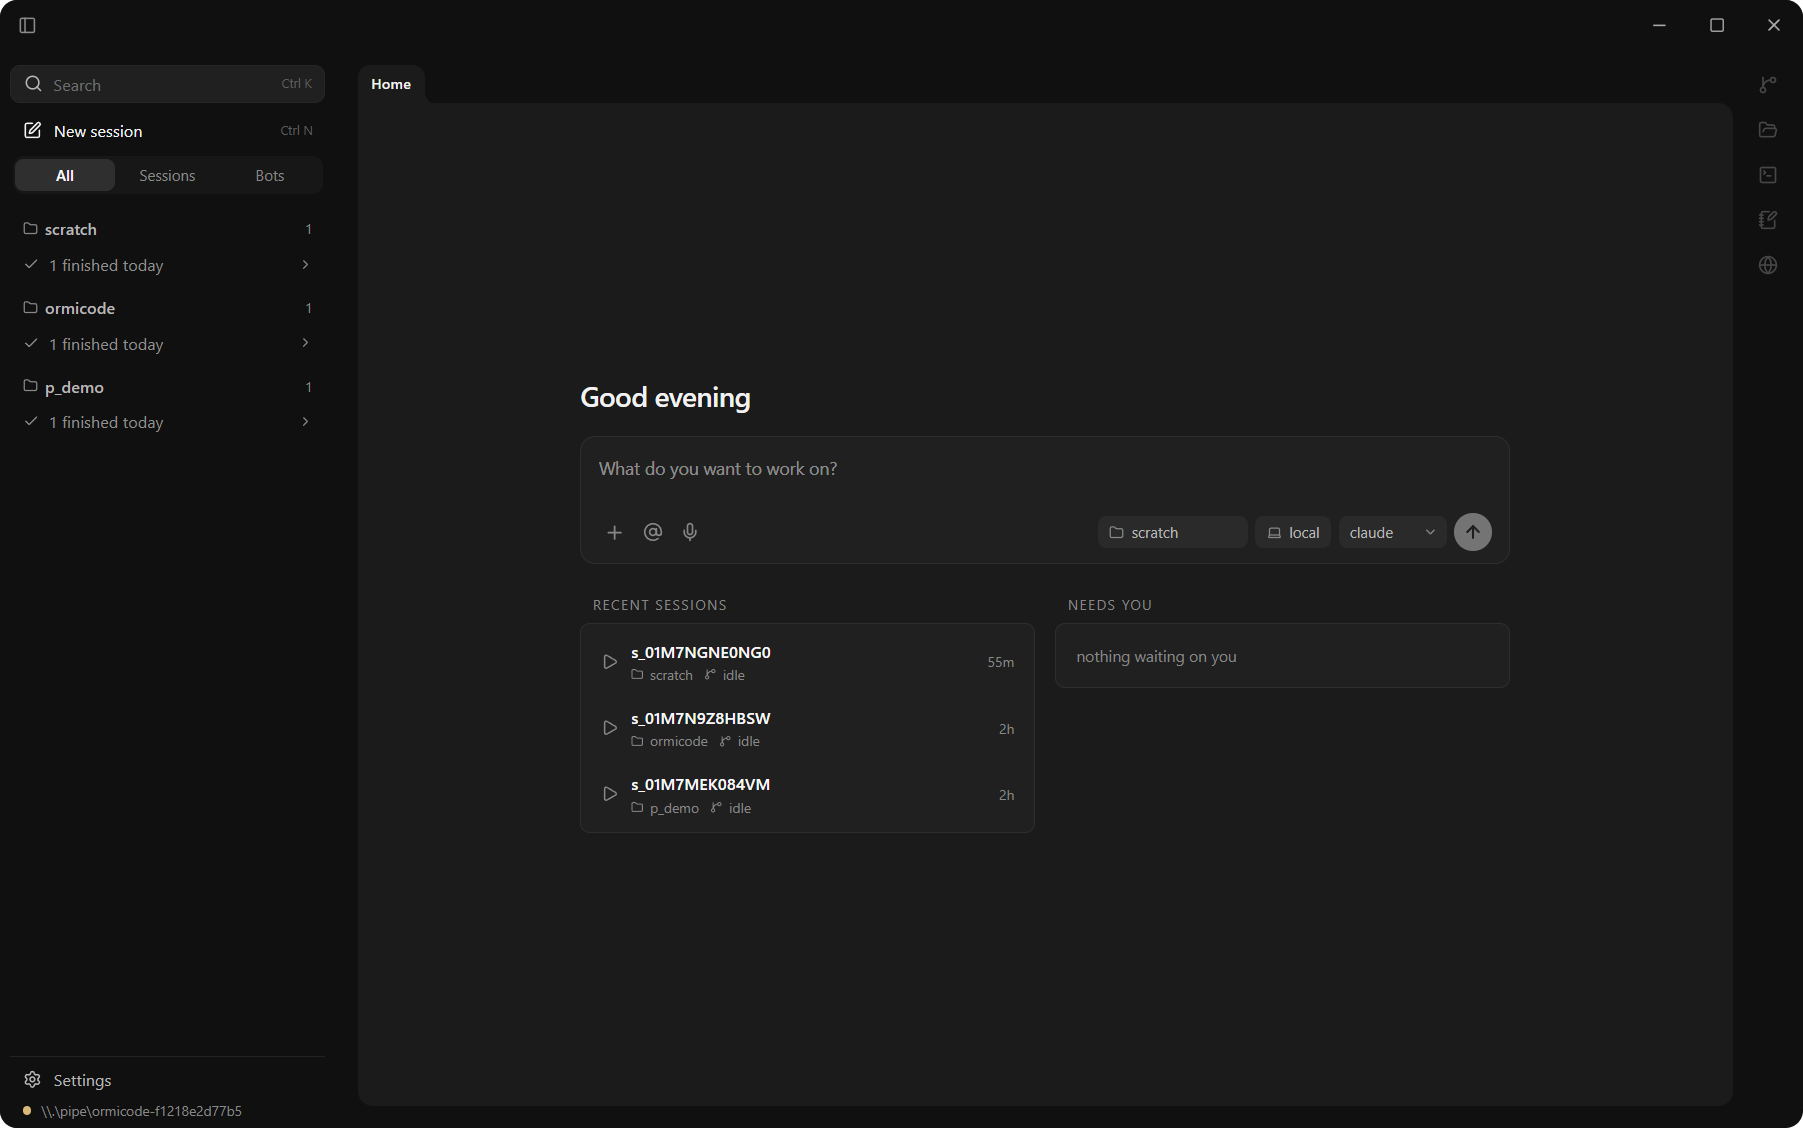
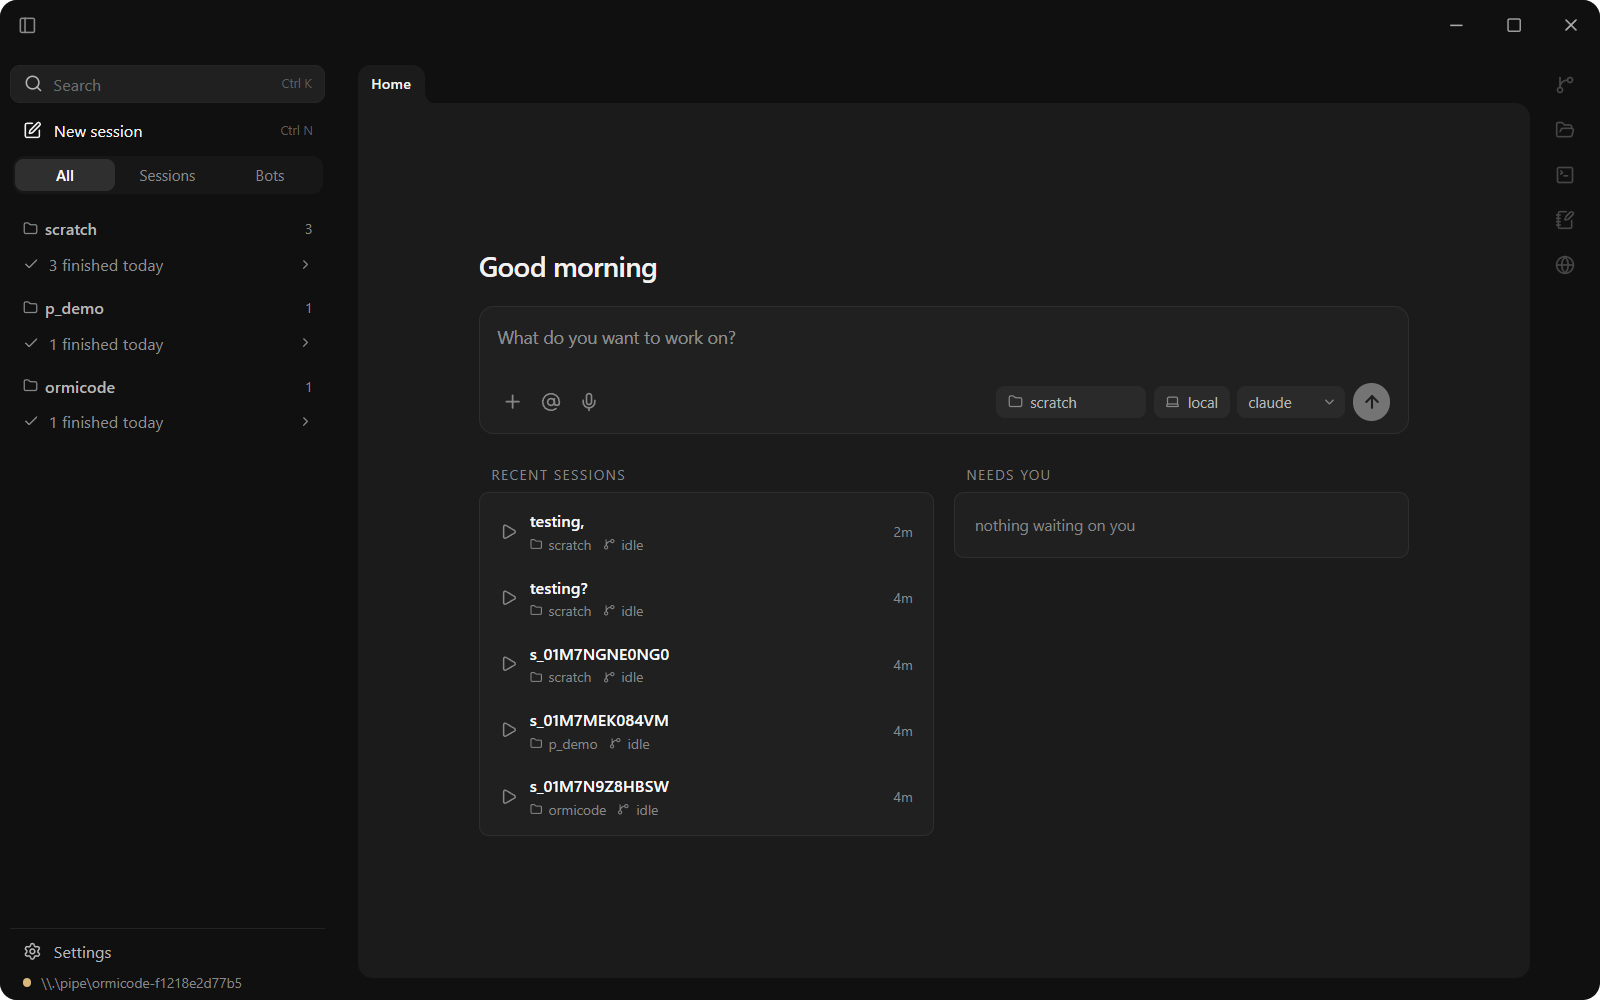
client-ui: drop sidebar connection footer, composer pass (Enter sends, autogrow, chip style)
Decided: the pipe path and keyring warning were dev noise under Settings, removed. New bg.chip token (#242424 dark) for the mockup's chips; light uses #E4E4E4. Transcript keys no longer collide on unjournaled seq=0 events.

diff --git a/packages/client-ui/src/features/session/NewSession.tsx b/packages/client-ui/src/features/session/NewSession.tsx
@@ -1,5 +1,6 @@
-/** New-session composer card: prompt + project/agent chips → session.start. */
-import { useState } from 'react';
+/** New-session composer card: prompt + project/machine/agent chips → session.start.
+ *  Enter sends, Shift+Enter newline; the textarea grows with the prompt. */
+import { useRef, useState } from 'react';
 import { Plus, AtSign, Mic, ArrowUp, ChevronDown, Folder, Laptop } from 'lucide-react';
 import { newId } from '@ormicode/protocol';
 import { usePlatform } from '../../lib/platform.ts';
@@ -8,18 +9,24 @@ const VENDORS = ['claude', 'codex', 'opencode', 'pi', 'grok', 'vibe', 'fake'];
 
 const chip = {
   font: 'inherit', fontSize: 12, color: 'var(--text-label)',
-  background: '#2a2a2a', border: 'none',
-  borderRadius: 7, padding: '4px 9px', display: 'inline-flex', alignItems: 'center', gap: 6,
+  background: 'var(--bg-chip)', border: 'none',
+  borderRadius: 7, padding: '0 8px', height: 24, display: 'inline-flex', alignItems: 'center', gap: 6,
 };
 const iconBtn = { background: 'none', border: 'none', color: 'var(--text-hint)', font: 'inherit', cursor: 'pointer', padding: 4, display: 'inline-flex' };
 
 export function NewSession({ onStarted }: { onStarted: (session: string) => void }) {
   const { transport } = usePlatform();
+  const area = useRef<HTMLTextAreaElement>(null);
   const [text, setText] = useState('');
   const [vendor, setVendor] = useState('claude');
   const [project, setProject] = useState('scratch');
   const [busy, setBusy] = useState(false);
   const [error, setError] = useState<string>();
+
+  const grow = () => {
+    const el = area.current;
+    if (el) { el.style.height = 'auto'; el.style.height = `${Math.min(el.scrollHeight, 168)}px`; }
+  };
 
   const send = async () => {
     const t = text.trim();
@@ -33,7 +40,7 @@ export function NewSession({ onStarted }: { onStarted: (session: string) => void
       });
       if (res.type === 'err') { setError(res.message); setBusy(false); return; }
       const session = (res.body as { session: string }).session;
-      setText('');
+      setText(''); grow();
       void transport.request('session.prompt', { session, text: t });
       onStarted(session);
     } catch (e) { setError(String(e)); setBusy(false); }
@@ -45,13 +52,15 @@ export function NewSession({ onStarted }: { onStarted: (session: string) => void
       padding: '14px 14px 10px', width: '100%',
     }}>
       <textarea
-        value={text} onChange={e => setText(e.target.value)}
-        onKeyDown={e => { if (e.key === 'Enter' && (e.metaKey || e.ctrlKey)) void send(); }}
-        placeholder="What do you want to work on?" rows={2}
+        ref={area}
+        value={text}
+        onChange={e => { setText(e.target.value); grow(); }}
+        onKeyDown={e => { if (e.key === 'Enter' && !e.shiftKey) { e.preventDefault(); void send(); } }}
+        placeholder="What do you want to work on?" rows={1}
         style={{
-          width: '100%', resize: 'none', font: 'inherit', fontSize: 14,
+          width: '100%', resize: 'none', font: 'inherit', fontSize: 14, lineHeight: 1.5,
           background: 'transparent', border: 'none', outline: 'none', color: 'var(--text-active)',
-          minHeight: 40,
+          minHeight: 42, maxHeight: 168, overflow: 'hidden',
         }}
       />
       {error ? <div style={{ color: 'var(--accent-red)', fontSize: 'var(--text-xs)', marginBottom: 4 }}>{error}</div> : null}
@@ -63,20 +72,21 @@ export function NewSession({ onStarted }: { onStarted: (session: string) => void
         <label style={{ ...chip, cursor: 'text' }} title="project path or 'scratch'">
           <Folder size={12} style={{ color: 'var(--text-hint)' }} />
           <input value={project} onChange={e => setProject(e.target.value)}
-            style={{ width: 84, font: 'inherit', fontSize: 'inherit', color: 'inherit', background: 'transparent', border: 'none', outline: 'none', padding: 0 }} />
+            style={{ width: 72, font: 'inherit', fontSize: 'inherit', color: 'inherit', background: 'transparent', border: 'none', outline: 'none', padding: 0 }} />
+          <ChevronDown size={12} style={{ color: 'var(--text-hint)' }} />
         </label>
-        <span style={chip} title="this machine"><Laptop size={12} style={{ color: 'var(--text-hint)' }} />local</span>
-        <span style={{ ...chip, padding: 0, position: 'relative' }}>
-          <select value={vendor} onChange={e => setVendor(e.target.value)} style={{ font: 'inherit', fontSize: 'inherit', color: 'inherit', background: 'transparent', border: 'none', outline: 'none', cursor: 'pointer', appearance: 'none', padding: '4px 24px 4px 9px' }}>
+        <span style={chip} title="this machine"><Laptop size={12} style={{ color: 'var(--text-hint)' }} />local<ChevronDown size={12} style={{ color: 'var(--text-hint)' }} /></span>
+        <span style={{ ...chip, padding: 0, position: 'relative' }} title="agent">
+          <select value={vendor} onChange={e => setVendor(e.target.value)} style={{ font: 'inherit', fontSize: 'inherit', color: 'inherit', background: 'transparent', border: 'none', outline: 'none', cursor: 'pointer', appearance: 'none', height: 24, padding: '0 24px 0 9px' }}>
             {VENDORS.map(v => <option key={v} value={v}>{v}</option>)}
           </select>
           <ChevronDown size={12} style={{ position: 'absolute', right: 7, top: '50%', transform: 'translateY(-50%)', pointerEvents: 'none', color: 'var(--text-hint)' }} />
         </span>
         <button onClick={() => void send()} disabled={!text.trim() || busy} title="start session" style={{
-          width: 30, height: 30, borderRadius: '50%', border: 'none', cursor: 'pointer',
+          width: 26, height: 26, borderRadius: '50%', border: 'none', cursor: 'pointer', marginLeft: 2,
           background: 'var(--text-title)', color: 'var(--text-onAccent)', opacity: text.trim() ? 1 : 0.4,
           display: 'inline-flex', alignItems: 'center', justifyContent: 'center',
-        }}><ArrowUp size={16} strokeWidth={2.5} /></button>
+        }}><ArrowUp size={15} strokeWidth={2.5} /></button>
       </div>
     </div>
   );

diff --git a/packages/client-ui/src/features/session/Composer.tsx b/packages/client-ui/src/features/session/Composer.tsx
@@ -1,33 +1,41 @@
-/** Prompt composer — session.prompt on Enter. Chips show what the
- * session runs; pickers arrive when the protocol exposes pickers. */
-import { useState } from 'react';
-import { Plus, AtSign, Mic, ArrowUp } from 'lucide-react';
+/** Prompt composer — session.prompt on Enter (Shift+Enter for newline).
+ * Chips show what the session runs; pickers arrive when the protocol exposes them. */
+import { useRef, useState } from 'react';
+import { Plus, AtSign, Mic, ArrowUp, ChevronDown } from 'lucide-react';
 import { usePlatform } from '../../lib/platform.ts';
 import type { SessionDetails } from './useSession.ts';
 
 export function Composer({ session, details }: { session: string; details?: SessionDetails }) {
   const { transport } = usePlatform();
+  const area = useRef<HTMLTextAreaElement>(null);
   const [text, setText] = useState('');
+  const grow = () => {
+    const el = area.current;
+    if (el) { el.style.height = 'auto'; el.style.height = `${Math.min(el.scrollHeight, 168)}px`; }
+  };
   const send = () => {
     const t = text.trim(); if (!t) return;
-    setText('');
+    setText(''); grow();
     void transport.request('session.prompt', { session, text: t });
   };
   const iconBtn = { background: 'none', border: 'none', color: 'var(--text-hint)', font: 'inherit', cursor: 'pointer', padding: 4, display: 'inline-flex' };
-  const chip = { fontSize: 'var(--text-xs)', color: 'var(--text-secondary)', background: 'var(--bg-raised)', border: '1px solid var(--line-card)', borderRadius: 'var(--radius-sm)', padding: '2px 8px' };
+  const chip = { fontSize: 'var(--text-xs)', color: 'var(--text-label)', background: 'var(--bg-chip)', border: 'none', borderRadius: 7, padding: '0 8px', height: 24, display: 'inline-flex', alignItems: 'center', gap: 5 };
   return (
     <div style={{ padding: 'var(--space-3)', display: 'flex', justifyContent: 'center' }}>
       <div style={{
         width: '100%', background: 'var(--bg-card)', border: '1px solid var(--line-card)',
         borderRadius: 'var(--radius-md)', padding: 'var(--space-2) var(--space-3)',
       }}>
-        <input
-          value={text} onChange={e => setText(e.target.value)}
+        <textarea
+          ref={area}
+          value={text}
+          onChange={e => { setText(e.target.value); grow(); }}
           onKeyDown={e => { if (e.key === 'Enter' && !e.shiftKey) { e.preventDefault(); send(); } }}
-          placeholder="prompt…" aria-label="prompt"
+          placeholder="prompt…" aria-label="prompt" rows={1}
           style={{
-            width: '100%', font: 'inherit', fontSize: 'var(--text-sm)', color: 'var(--text-active)',
-            background: 'transparent', border: 'none', outline: 'none', padding: '6px 0',
+            width: '100%', resize: 'none', font: 'inherit', fontSize: 'var(--text-sm)', lineHeight: 1.5,
+            color: 'var(--text-active)', background: 'transparent', border: 'none', outline: 'none',
+            padding: '6px 0', maxHeight: 168, overflow: 'hidden',
           }}
         />
         <div style={{ display: 'flex', alignItems: 'center', gap: 'var(--space-1)' }}>
@@ -35,13 +43,13 @@ export function Composer({ session, details }: { session: string; details?: Sess
           <button style={iconBtn} title="mention (soon)"><AtSign size={15} /></button>
           <button style={iconBtn} title="voice (soon)"><Mic size={15} /></button>
           <span style={{ flex: 1 }} />
-          {details?.vendor ? <span style={chip}>{details.vendor}</span> : null}
-          {details?.model ? <span style={chip}>{details.model}{details.effort ? ` ${details.effort}` : ''}</span> : null}
+          {details?.vendor ? <span style={chip}>{details.vendor}<ChevronDown size={11} style={{ color: 'var(--text-hint)' }} /></span> : null}
+          {details?.model ? <span style={chip}>{details.model}{details.effort ? ` ${details.effort}` : ''}<ChevronDown size={11} style={{ color: 'var(--text-hint)' }} /></span> : null}
           <button onClick={send} title="send" style={{
-            width: 26, height: 26, borderRadius: '50%', border: 'none', cursor: 'pointer',
+            width: 26, height: 26, borderRadius: '50%', border: 'none', cursor: 'pointer', marginLeft: 2,
             background: 'var(--text-title)', color: 'var(--text-onAccent)', opacity: text.trim() ? 1 : 0.4,
             display: 'inline-flex', alignItems: 'center', justifyContent: 'center',
-          }}><ArrowUp size={14} strokeWidth={2.5} /></button>
+          }}><ArrowUp size={15} strokeWidth={2.5} /></button>
         </div>
       </div>
     </div>

diff --git a/packages/ui-tokens/src/color.ts b/packages/ui-tokens/src/color.ts
@@ -1,7 +1,7 @@
 /** Colour tokens — semantic names only; the app decides where they go. */
 
 export interface ColorTokens {
-  'bg.window': string; 'bg.main': string; 'bg.card': string; 'bg.raised': string; 'bg.inset': string;
+  'bg.window': string; 'bg.main': string; 'bg.card': string; 'bg.raised': string; 'bg.inset': string; 'bg.chip': string;
   'line.card': string; 'line.divider': string; 'line.pane': string;
   'text.title': string; 'text.active': string; 'text.label': string; 'text.secondary': string; 'text.hint': string;
   'accent.mint': string; 'accent.amber': string; 'accent.red': string;
@@ -11,7 +11,7 @@ export interface ColorTokens {
 
 /** The built-in `dark` theme — the reference palette from the designs. */
 export const dark: ColorTokens = {
-  'bg.window': '#101010', 'bg.main': '#1B1B1B', 'bg.card': '#202020', 'bg.raised': '#2A2A2A', 'bg.inset': '#171717',
+  'bg.window': '#101010', 'bg.main': '#1B1B1B', 'bg.card': '#202020', 'bg.raised': '#2A2A2A', 'bg.inset': '#171717', 'bg.chip': '#242424',
   'line.card': '#2E2E2E', 'line.divider': '#262626', 'line.pane': '#222222',
   'text.title': '#F2F2F2', 'text.active': '#FAFAFA', 'text.label': '#B7B7B7', 'text.secondary': '#909090', 'text.hint': '#878787',
   'accent.mint': '#9ACBAF', 'accent.amber': '#D9B878', 'accent.red': '#D69C98',
@@ -21,7 +21,7 @@ export const dark: ColorTokens = {
 
 /** Built-in `light` theme — same semantic names, light values. */
 export const light: ColorTokens = {
-  'bg.window': '#E7E7E7', 'bg.main': '#F2F2F2', 'bg.card': '#FAFAFA', 'bg.raised': '#FFFFFF', 'bg.inset': '#D2D2D2',
+  'bg.window': '#E7E7E7', 'bg.main': '#F2F2F2', 'bg.card': '#FAFAFA', 'bg.raised': '#FFFFFF', 'bg.inset': '#D2D2D2', 'bg.chip': '#E4E4E4',
   'line.card': '#CBCBCB', 'line.divider': '#D2D2D2', 'line.pane': '#C7C7C7',
   'text.title': '#1B1B1B', 'text.active': '#101010', 'text.label': '#353535', 'text.secondary': '#4A4A4A', 'text.hint': '#6A6E76',
   'accent.mint': '#7FB69D', 'accent.amber': '#D9B878', 'accent.red': '#D69C98',

diff --git a/packages/client-ui/src/routes/App.tsx b/packages/client-ui/src/routes/App.tsx
@@ -187,13 +187,6 @@ export function App({ platform, theme = 'dark', layout }: { platform: ClientPlat
                 <Settings size={15} style={{ color: 'var(--text-label)', flexShrink: 0 }} />
                 <span style={{ fontSize: 13, color: 'var(--text-label)' }}>Settings</span>
               </div>
-              <div style={{ padding: '6px 10px 0', fontSize: 11, color: 'var(--text-hint)', display: 'flex', alignItems: 'center', gap: 8 }}>
-                <span style={{ width: 7, height: 7, borderRadius: '50%', flexShrink: 0, background: state === 'online' ? 'var(--accent-mint)' : 'var(--accent-amber)' }} title={state} />
-                <span style={{ overflow: 'hidden', textOverflow: 'ellipsis', whiteSpace: 'nowrap' }}>{platform.hubLabel}</span>
-              </div>
-              {platform.desktop?.storageBackend() === 'basic_text' ? (
-                <div style={{ padding: '4px 10px 0', fontSize: 11, color: 'var(--accent-amber)' }}>no OS keyring — token only obfuscated</div>
-              ) : null}
             </aside>
           ) : null}
           <main style={{ flex: 1, minWidth: 0, display: 'flex', flexDirection: 'column', margin: '12px 0 18px 18px' }}>

diff --git a/packages/client-ui/src/features/session/Transcript.tsx b/packages/client-ui/src/features/session/Transcript.tsx
@@ -95,7 +95,7 @@ export function Transcript({ events }: { events: TranscriptEvent[] }) {
   return (
     <div style={{ flex: 1, overflow: 'auto', display: 'flex', justifyContent: 'center' }}>
       <div style={{ width: '100%', maxWidth: 720, padding: 'var(--space-4) var(--space-5)' }}>
-        {events.map(e => <div key={e.seq}>{line(e)}</div>)}
+        {events.map((e, i) => <div key={e.seq > 0 ? e.seq : -i - 1}>{line(e)}</div>)}
         <div ref={end} />
       </div>
     </div>
